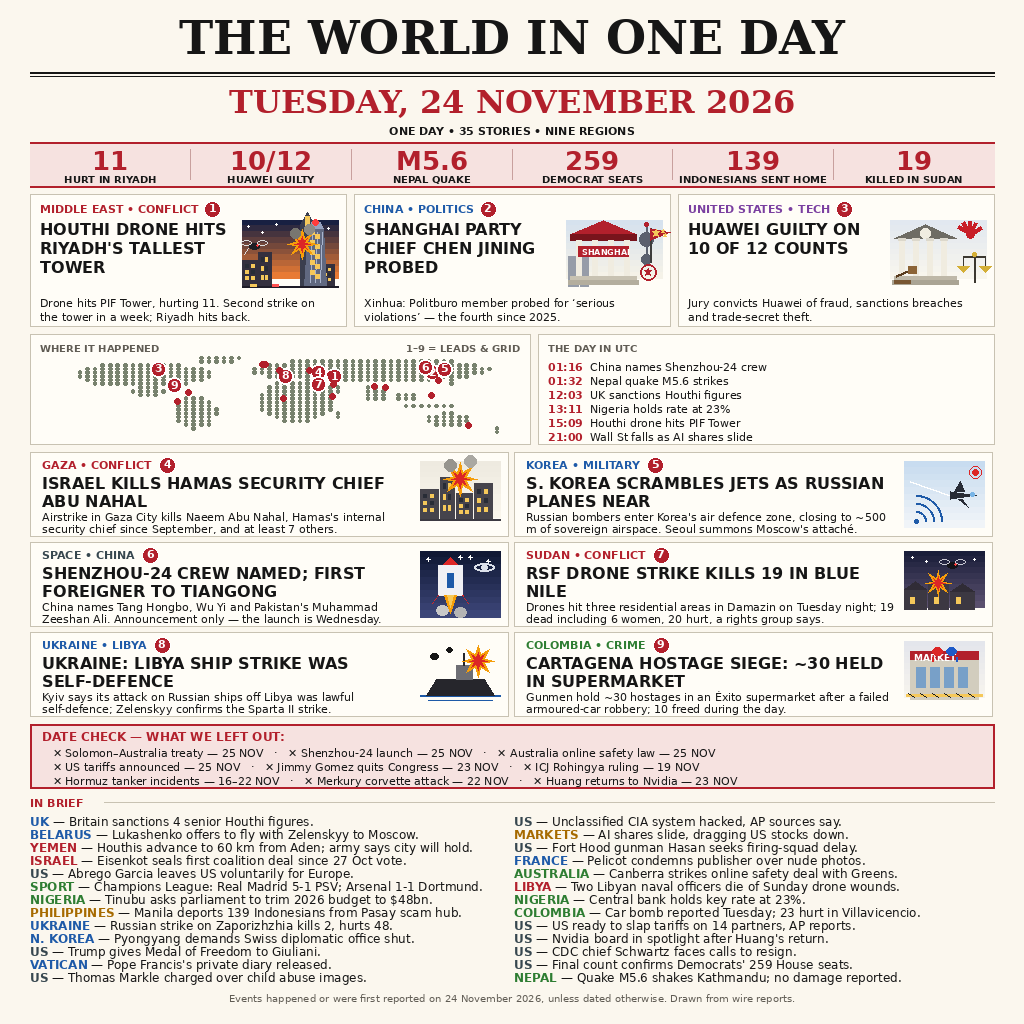
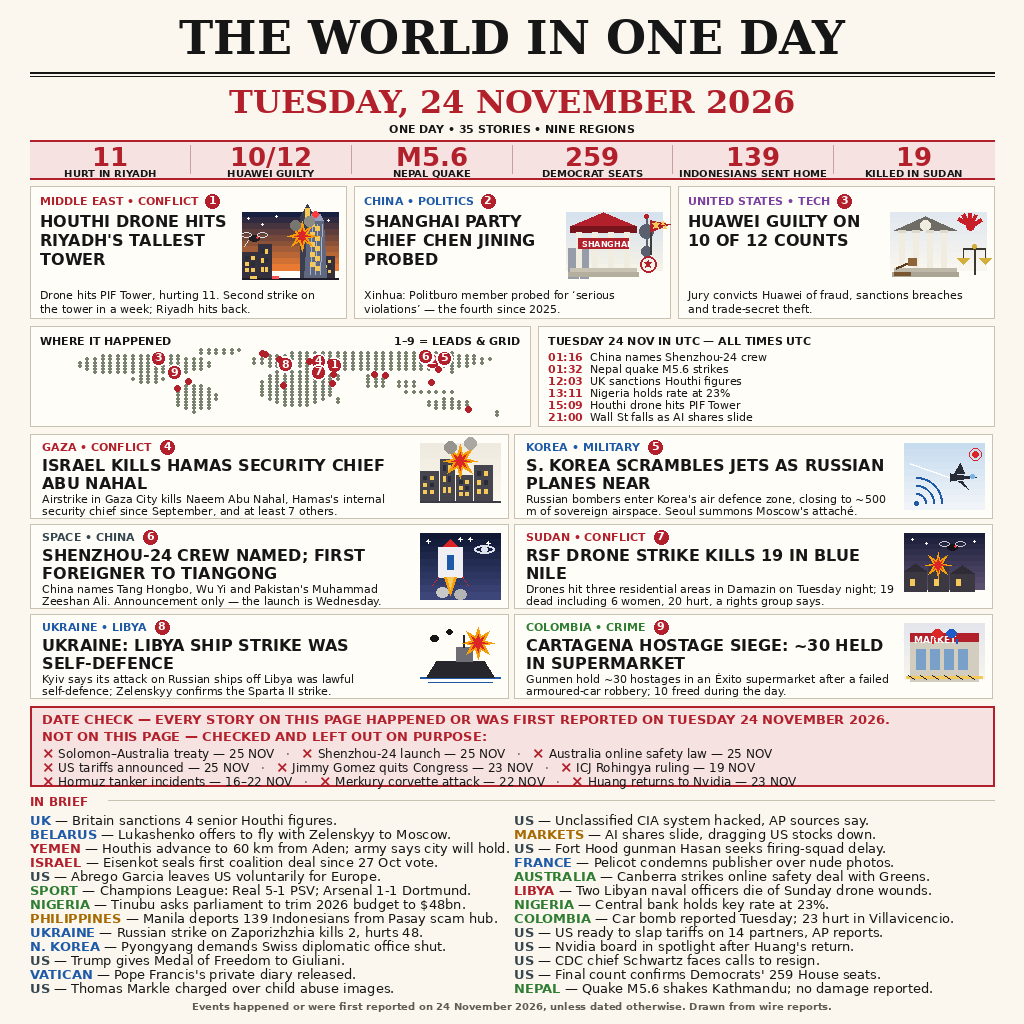
v2 refine ronde 1: rewrite DATE CHECK with affirmation + NOT ON THIS PAGE, explicit UTC timeline header, larger IN BRIEF type
- DATE CHECK: 'EVERY STORY ON THIS PAGE HAPPENED OR WAS FIRST REPORTED
  ON TUESDAY 24 NOVEMBER 2026.' + 'NOT ON THIS PAGE - CHECKED AND LEFT
  OUT ON PURPOSE:' + 9 items with big red x (v1 box was misread by
  vision judges as included wrong-date stories, 3 losses)
- Timeline header: 'TUESDAY 24 NOV IN UTC - ALL TIMES UTC'
- IN BRIEF 12->13pt, leading 13->14; section headers clarified
- Footer affirmation bolded; stories/dates/leads unchanged (35)

Changed region(s): [[0.0312, 0.125, 0.9688, 1.0]]

diff --git a/generate_poster.py b/generate_poster.py
@@ -1,5 +1,12 @@
 #!/usr/bin/env python3
-"""Draw the front page for Tuesday 24 November 2026 (v1).
+"""Draw the front page for Tuesday 24 November 2026 (v2 — refine ronde 1).
+
+v2 changes (from vision-AI judging of v1, 20/25 wins): DATE CHECK box
+rewritten with an explicit affirmation line + "NOT ON THIS PAGE" label
+(vision judges misread v1's "WHAT WE LEFT OUT" list as included
+wrong-date stories); timeline header now names the date explicitly;
+IN BRIEF type bumped 12 -> 13 with 14 leading and section headers
+clarified (2 losses on clutter/readability). Stories unchanged (35).
 
 One 1024x1024 newspaper poster, rendered with Pillow from flat vector
 shapes and programmatic text (no AI image generation, so every letter
@@ -561,7 +568,7 @@ BRIEFS_A = [
     ("YEMEN", C_CRIMSON, "Houthis advance to 60 km from Aden; army says city will hold."),
     ("ISRAEL", C_CRIMSON, "Eisenkot seals first coalition deal since 27 Oct vote."),
     ("US", C_SLATE, "Abrego Garcia leaves US voluntarily for Europe."),
-    ("SPORT", C_GREEN, "Champions League: Real Madrid 5-1 PSV; Arsenal 1-1 Dortmund."),
+    ("SPORT", C_GREEN, "Champions League: Real 5-1 PSV; Arsenal 1-1 Dortmund."),
     ("NIGERIA", C_GREEN, "Tinubu asks parliament to trim 2026 budget to $48bn."),
     ("PHILIPPINES", C_AMBER, "Manila deports 139 Indonesians from Pasay scam hub."),
     ("UKRAINE", C_BLUE, "Russian strike on Zaporizhzhia kills 2, hurts 48."),
@@ -627,10 +634,10 @@ def main():
     f_sub = F(SANS_B, 11)
     sub = "ONE DAY \u2022 35 STORIES \u2022 NINE REGIONS"
     sw = d.textlength(sub, font=f_sub)
-    d.text(((W - sw) / 2, 124), sub, font=f_sub, fill=INK)
+    d.text(((W - sw) / 2, 122), sub, font=f_sub, fill=INK)
 
     # Big-number strip.
-    sy, sh = 142, 44
+    sy, sh = 140, 38
     d.rectangle([MX, sy, W - MX, sy + sh], fill=RED_BAND)
     d.line([(MX, sy), (W - MX, sy)], fill=RED, width=2)
     d.line([(MX, sy + sh), (W - MX, sy + sh)], fill=RED, width=2)
@@ -642,18 +649,18 @@ def main():
         nw = d.textlength(num, font=f_num)
         if nw > cell - 8:
             note("strip number too wide: %r (%.1f)" % (num, nw))
-        d.text((cx - nw / 2, sy + 3), num, font=f_num, fill=RED)
+        d.text((cx - nw / 2, sy + 1), num, font=f_num, fill=RED)
         lab_lines = wrap(d, lab, f_lab, cell - 10)
         if len(lab_lines) > 1:
             note("strip label wraps: %r" % lab)
         lw = d.textlength(lab, font=f_lab)
-        d.text((cx - lw / 2, sy + 31), lab, font=f_lab, fill=INK)
+        d.text((cx - lw / 2, sy + 27), lab, font=f_lab, fill=INK)
         if i:
             x = MX + cell * i
-            d.line([(x, sy + 7), (x, sy + sh - 7)], fill=(200, 160, 158), width=1)
+            d.line([(x, sy + 5), (x, sy + sh - 5)], fill=(200, 160, 158), width=1)
 
     # Three leads, side by side, each with a rich illustration.
-    ly, lh = 194, 132
+    ly, lh = 186, 132
     lead_w, lead_gap = 316, 8
     f_kick = F(SANS_B, 11)
     f_lhead = F(SANS_B, 16)
@@ -675,33 +682,34 @@ def main():
         draw_lines(d, lx + 10, ly + 102, deck_lines, f_ldeck, INK, 14)
 
     # Map + UTC timeline row.
-    my, mh = 334, 110
+    my, mh = 326, 100
     # Map (left).
     d.rectangle([MX, my, MX + 500, my + mh], fill=CARD_BG,
                 outline=(200, 194, 178))
-    f_maplab = F(SANS_B, 10)
-    d.text((MX + 10, my + 8), "WHERE IT HAPPENED", font=f_maplab, fill=GREY)
+    f_maplab = F(SANS_B, 11)
+    d.text((MX + 10, my + 8), "WHERE IT HAPPENED", font=f_maplab, fill=INK)
     d.text((MX + 500 - 10 - d.textlength("1\u20139 = LEADS & GRID",
            font=f_maplab), my + 8), "1\u20139 = LEADS & GRID",
-           font=f_maplab, fill=GREY)
-    draw_map(d, MX + 8, my + 22, 484, 84, dot_r=1.8)
+           font=f_maplab, fill=INK)
+    draw_map(d, MX + 8, my + 22, 484, 74, dot_r=1.5)
     # Timeline (right).
     tx0 = MX + 508
     tw = W - MX - tx0
     d.rectangle([tx0, my, tx0 + tw, my + mh], fill=CARD_BG,
                 outline=(200, 194, 178))
-    d.text((tx0 + 10, my + 8), "THE DAY IN UTC", font=f_maplab, fill=GREY)
+    d.text((tx0 + 10, my + 8), "TUESDAY 24 NOV IN UTC \u2014 ALL TIMES UTC",
+           font=f_maplab, fill=INK)
     f_tl = F(SANS, 11)
     f_tlb = F(SANS_B, 11)
     for j, (tm, txt) in enumerate(TIMELINE):
-        yy = my + 26 + j * 14
+        yy = my + 24 + j * 12
         d.text((tx0 + 10, yy), tm, font=f_tlb, fill=RED)
         if d.textlength(tm + "  " + txt, font=f_tl) > tw - 20:
             note("timeline too wide: %r" % txt)
         d.text((tx0 + 52, yy), txt, font=f_tl, fill=INK)
 
     # Grid: 2 columns x 3 rows of main stories.
-    gy = 452
+    gy = 434
     card_w, card_h, gap = 478, 84, 6
     f_h = F(SANS_B, 16)
     f_b = F(SANS, 11)
@@ -725,29 +733,47 @@ def main():
         b_lines = fit_lines(d, story["body"], f_b, text_w, 2, "body %d" % (i + 1))
         draw_lines(d, tx, cy + 58, b_lines, f_b, INK, 12)
 
-    # DATE CHECK box: 9 non-24-Nov stories, honestly dated.
-    dy, dh = 724, 64
+    # DATE CHECK box: affirmation first, then the excluded items with a
+    # big red x each. v1's "WHAT WE LEFT OUT" header was misread by vision
+    # judges as a list of INCLUDED wrong-date stories (3 losses); the new
+    # wording makes the exclusion unmistakable even at 300px.
+    dy, dh = 706, 80
     d.rectangle([MX, dy, W - MX, dy + dh], fill=RED_BAND, outline=RED, width=2)
-    f_dc = F(SANS_B, 12)
-    f_dci = F(SANS, 11)
-    d.text((MX + 12, dy + 5), "DATE CHECK \u2014 WHAT WE LEFT OUT:",
+    f_dc = F(SANS_B, 13)
+    d.text((MX + 12, dy + 5),
+           "DATE CHECK \u2014 EVERY STORY ON THIS PAGE HAPPENED OR WAS "
+           "FIRST REPORTED ON TUESDAY 24 NOVEMBER 2026.",
            font=f_dc, fill=RED)
+    d.text((MX + 12, dy + 22),
+           "NOT ON THIS PAGE \u2014 CHECKED AND LEFT OUT ON PURPOSE:",
+           font=f_dc, fill=RED)
+    f_dcx = F(SANS_B, 15)
+    f_dci = F(SANS, 12)
     for r in range(3):
         items = DATE_CHECK[r * 3:(r + 1) * 3]
-        line = "   \u2715 " + "   \u00b7   \u2715 ".join(
-            "%s \u2014 %s" % (t, dt) for (t, dt) in items)
-        if d.textlength(line, font=f_dci) > CW - 24:
-            note("DATE CHECK line too wide: %r" % line)
-        d.text((MX + 12, dy + 22 + r * 14), line, font=f_dci, fill=INK)
+        x = MX + 12
+        yy = dy + 40 + r * 14
+        for j, (t, dt) in enumerate(items):
+            d.text((x, yy - 2), "\u00d7", font=f_dcx, fill=RED)
+            xw = d.textlength("\u00d7", font=f_dcx)
+            txt = " %s \u2014 %s" % (t, dt)
+            d.text((x + xw, yy), txt, font=f_dci, fill=INK)
+            x += xw + d.textlength(txt, font=f_dci)
+            if j < 2:
+                sep = "   \u00b7   "
+                d.text((x, yy), sep, font=f_dci, fill=GREY)
+                x += d.textlength(sep, font=f_dci)
+        if x - (MX + 12) > CW - 24:
+            note("DATE CHECK row %d too wide (%.1f)" % (r, x - (MX + 12)))
 
     # Briefs, two columns, one line each.
-    by = 796
-    f_sec = F(SANS_B, 11)
+    by = 794
+    f_sec = F(SANS_B, 12)
     d.text((MX, by), "IN BRIEF", font=f_sec, fill=RED)
-    d.line([(MX + 74, by + 6), (W - MX, by + 6)], fill=(200, 194, 178), width=1)
-    f_br = F(SANS, 12)
-    f_bk = F(SANS_B, 12)
-    lead = 13
+    d.line([(MX + 78, by + 6), (W - MX, by + 6)], fill=(200, 194, 178), width=1)
+    f_br = F(SANS, 13)
+    f_bk = F(SANS_B, 13)
+    lead = 14
     for col, briefs in enumerate((BRIEFS_A, BRIEFS_B)):
         bx = MX + col * (card_w + gap)
         for j, (kick, color, text) in enumerate(briefs):
@@ -759,12 +785,12 @@ def main():
                 note("brief too wide: %r" % (kick + rest))
             d.text((bx + kw, yy), rest, font=f_br, fill=INK)
 
-    # Footer.
-    f_foot = F(SANS, 10)
+    # Footer (affirmation, bolded in v2).
+    f_foot = F(SANS_B, 10)
     foot = ("Events happened or were first reported on 24 November 2026, "
             "unless dated otherwise. Drawn from wire reports.")
     fw = d.textlength(foot, font=f_foot)
-    d.text(((W - fw) / 2, 992), foot, font=f_foot, fill=GREY)
+    d.text(((W - fw) / 2, 1000), foot, font=f_foot, fill=GREY)
 
     img.save(OUT, format="PNG")
     print("wrote %s (%d bytes)" % (OUT, os.path.getsize(OUT)))
